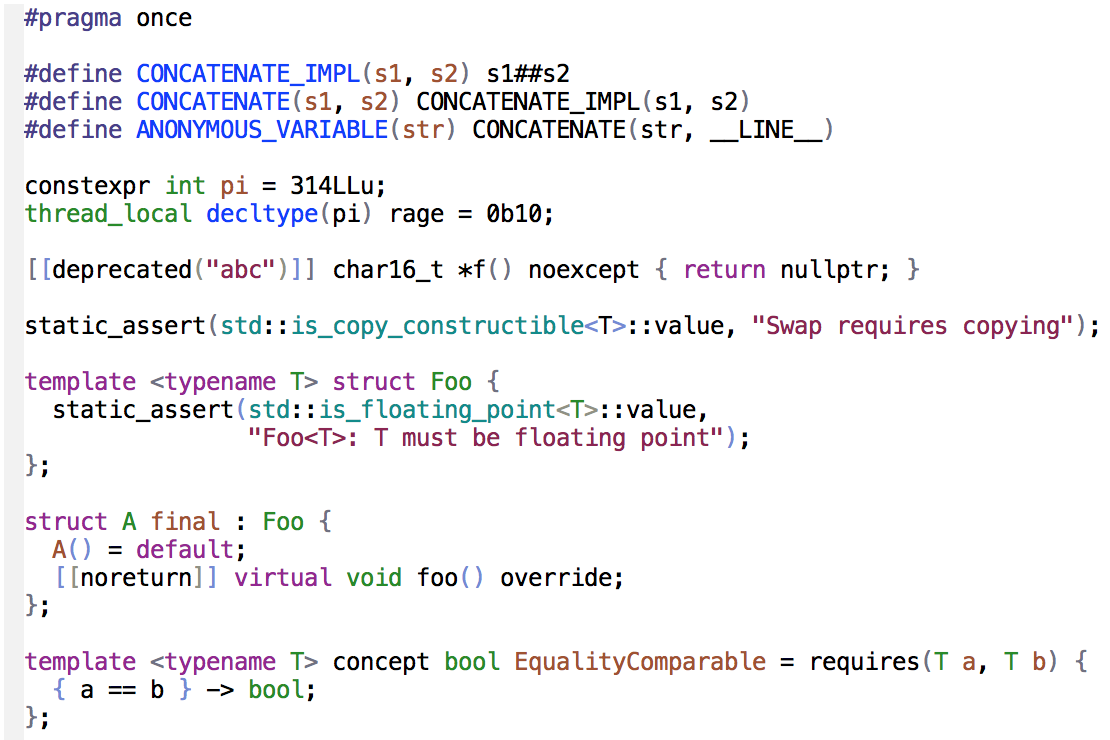
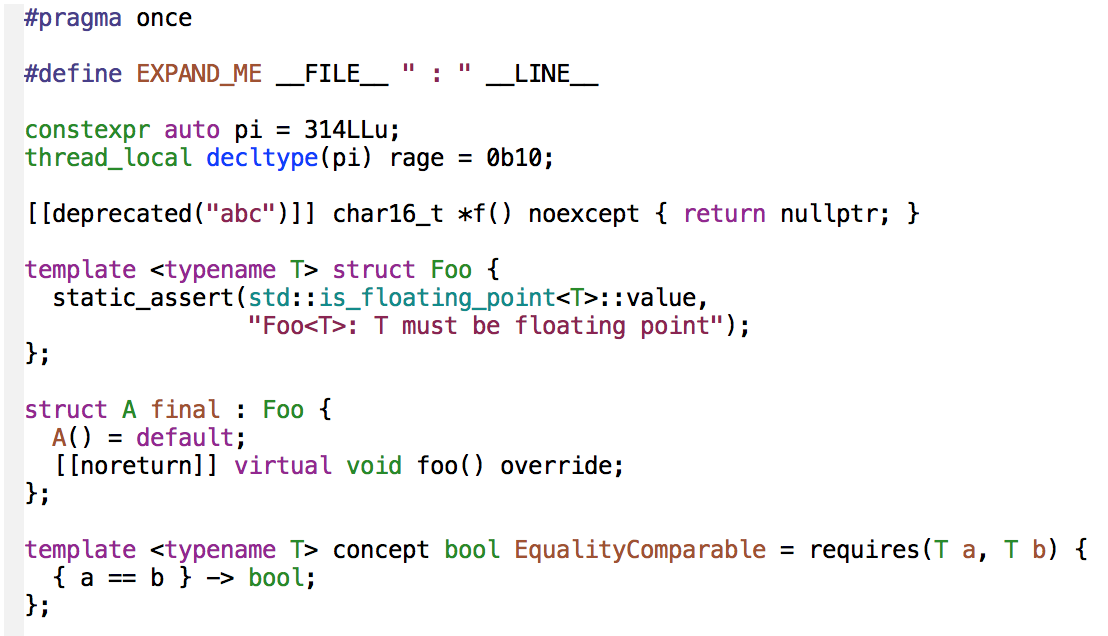
Better preview

Changed region(s): [[0.0, 0.0597, 1.0, 0.9858], [0.0, 0.0, 0.1841, 0.0597], [0.6444, 0.1494, 0.7365, 0.2091]]

diff --git a/preview.cc b/preview.cc
@@ -1,15 +1,11 @@
 #pragma once
 
-#define CONCATENATE_IMPL(s1, s2) s1##s2
-#define CONCATENATE(s1, s2) CONCATENATE_IMPL(s1, s2)
-#define ANONYMOUS_VARIABLE(str) CONCATENATE(str, __LINE__)
+#define EXPAND_ME __FILE__ " : " __LINE__
 
-constexpr int pi = 314LLu;
+constexpr auto pi = 314LLu;
 thread_local decltype(pi) rage = 0b10;
 
 [[deprecated("abc")]] char16_t *f() noexcept { return nullptr; }
-
-static_assert(std::is_copy_constructible<T>::value, "Swap requires copying");
 
 template <typename T> struct Foo {
   static_assert(std::is_floating_point<T>::value,
